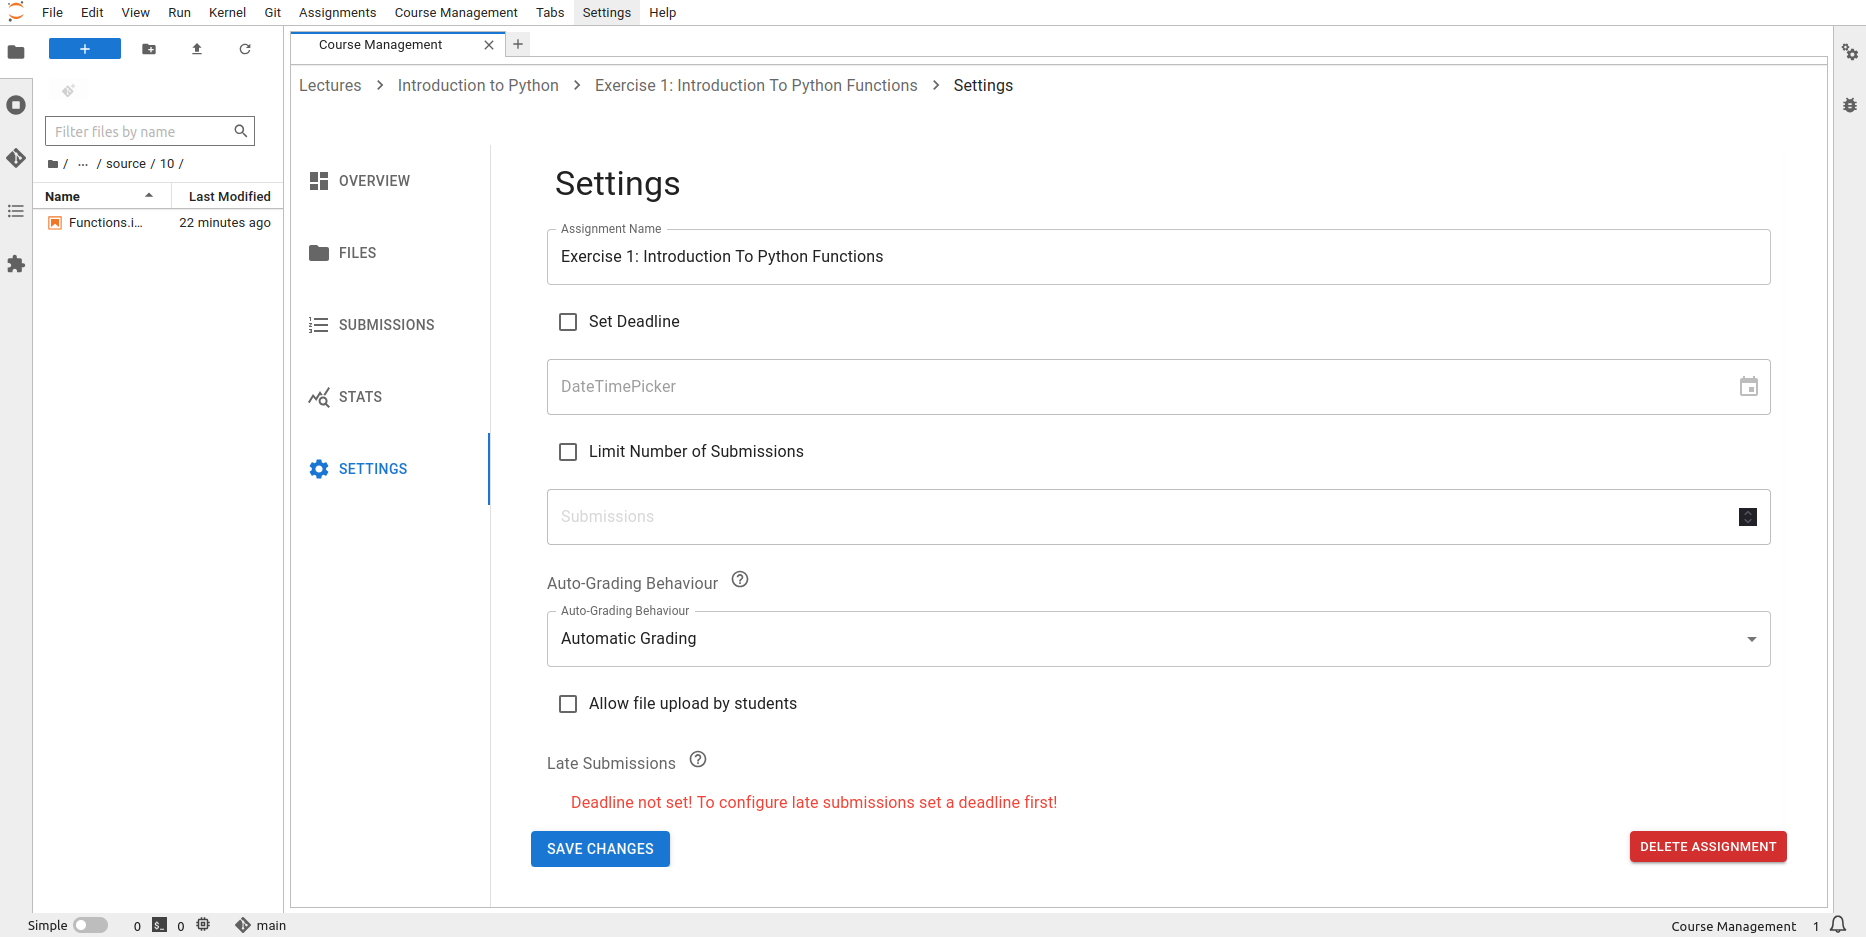
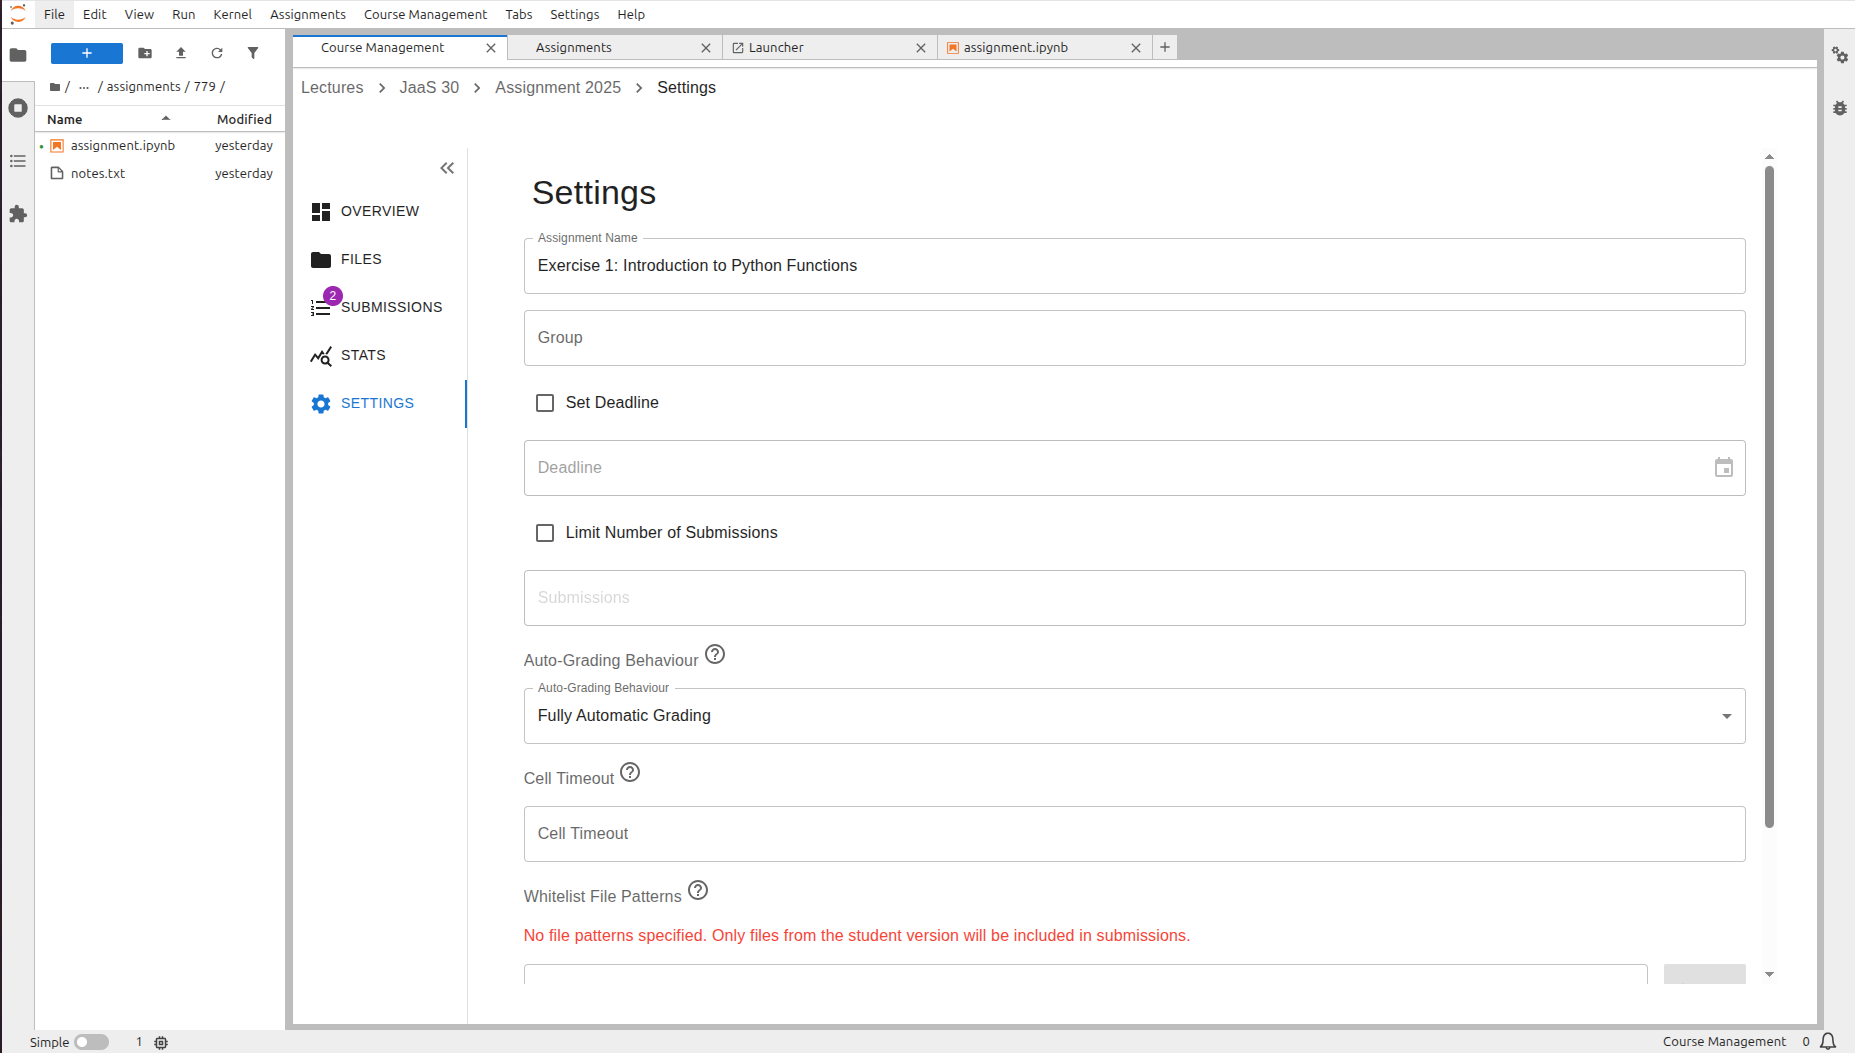
Docs/update docs (#332)
* test: refactored autograde test to parameterized test

this test will help us to test different notebook names

* fix: remove escaping filenames to handle special characters

* test: test including notebooks with special characters

* fix: removed the helper function and added decorator to the test

* fix: added description about groups and cell timeout fields, reordered current paragraphs

* docs: update manual grading description

---------

Pull request: Docs/update docs
Added description about group and cell timeout fields in the instructor view.

diff --git a/docs/source/instructor_guide/working_with_assignments.md b/docs/source/instructor_guide/working_with_assignments.md
@@ -114,9 +114,36 @@ In the overview window of the assignment, you will find many ways to monitor, gr
 
 ![Assignment Overview](../_static/assets/images/instructor_guide/assignment_overview.png)
 
+## Assignment Lifecycle
+
+![Assingment Status](../_static/assets/images/instructor_guide/assignment_lifecycle.png)
+
+An assignment can have 3 states that can be switched between and represent the lifecycle of the assignment.
+
+- Edit
+  : When first created, the assignment is in "Edit mode", where the assignment files can be added and edited.
+    In this stage, the assignment is not visible to students. However, when an instructor opens the student view ("Assignments" card in launcher), it will be displayed to them.
+- Released
+  : The assignment is released to students and the students can work on it.
+    The released files are identical to the files in the release directory at the time of the release.
+    It is possible to undo the release and publish a new release. However, some students may have already pulled the old release.
+    In this case the students might have to reset their files and might loose progress, which has to be communicated.
+    In general, a re-release should be avoided.
+
+    :::{warning}
+    Revoking a released assignment may lead to diverging states of student files and submissions that fail auto-grading.
+    :::
+- Completed
+  : The assignment is over and cannot be worked on anymore and new submissions will be rejected, but it is still visible.
+    This state can be revoked without any consideration and will return to a released state.
+
 ## Assignment Settings
 
 ![Assignment Settings](../_static/assets/images/instructor_guide/assignment_settings.png)
+
+### Groups
+
+You can assign assignments to a group you specify. This allows you to cluster assignments based on different criteria, e.g. the chapters of your lecture. Please note that each assignment can be assigned to only one group. 
 
 ### Deadlines
 
@@ -134,6 +161,14 @@ You can set a limit on the number of times students can submit an assignment.
 
 **Submission Limits**:  
 You can define a maximum number of submissions for each assignment (e.g., students can submit up to 3 times). Once a student reaches this limit, they will no longer be able to make additional submissions unless you increase the limit for all students.
+
+### Cell timeout
+
+This field allows you to dynamically set the timeout of a cell per assignment in seconds. This means that the running time of each cell in the notebook(s) of the assignment will be limited by the value you specify. Please note that setting timeout for each cell separately is not possible.
+
+### Whitelist File Patterns
+
+By using `glob patterns` you can define which additional files can be submitted by the students. This allows you to have a better control over students' submissions and avoid getting unnecessary files from their side. 
 
 ### Late Submissions
 
@@ -163,28 +198,6 @@ It specifies the action taken when a user submits an assignment.
   : The assignment is auto-graded and feedback is generated as soon as the student submits their assignment.
     This requires that no manually graded cells are part of the assignment.
 
-## Assignment Lifecycle
-
-![Assingment Status](../_static/assets/images/instructor_guide/assignment_lifecycle.png)
-
-An assignment can have 3 states that can be switched between and represent the lifecycle of the assignment.
-
-- Edit
-  : When first created, the assignment is in "Edit mode", where the assignment files can be added and edited.
-    In this stage, the assignment is not visible to students. However, when an instructor opens the student view ("Assignments" card in launcher), it will be displayed to them.
-- Released
-  : The assignment is released to students and the students can work on it.
-    The released files are identical to the files in the release directory at the time of the release.
-    It is possible to undo the release and publish a new release. However, some students may have already pulled the old release.
-    In this case the students might have to reset their files and might loose progress, which has to be communicated.
-    In general, a re-release should be avoided.
-
-    :::{warning}
-    Revoking a released assignment may lead to diverging states of student files and submissions that fail auto-grading.
-    :::
-- Completed
-  : The assignment is over and cannot be worked on anymore and new submissions will be rejected, but it is still visible.
-    This state can be revoked without any consideration and will return to a released state.
 
 ## Grading Assignments
 
@@ -202,7 +215,6 @@ If manual grading is not needed or not wanted, it can be skipped.
 The last step is feedback generation, at which point students will see their results.
 
 
-
 ## Manual Submissions
 
 You have the ability to manually add submissions for students, even after the deadline has passed.
@@ -218,7 +230,9 @@ Following video illustrates the procedure:
 ![Manual Submission](../_static/assets/gifs/instructor_guide/manual_submission.gif)
    
 ### How To Grade Manual Answer Cells?
-  - Once a student submits their work, it will appear in the "Submissions" list. To manually grade a submission, it must first be automatically graded (this sets the necessary metadata for successful grading). If you selected "Automatic Grading" when creating the assignment, this will be done automatically and you may immediately proceed with manual grading. If you chose "No Automatic Grading," you must first select the submission and click "AUTOGRADE." Afterward, you will be able to manually grade the submission.
+  - Once a student submits their work, it will appear in the "Submissions" list. 
+    If you selected "Automatic Grading" when creating the assignment, the submission has to be automatically graded and afterwards you may
+    immediately proceed with manual grading. If you chose "No Automatic Grading", you can just pull the submission right away and manually grade it. 
   - Click on submission in the Submission List and pull it. This will reveal files the student has submitted.
   - Click on notebook that you want to manually grade and when the notebook opens up enable "Grading Mode".
   - You can now assign points, leave comments or even give extra credits for the solution.